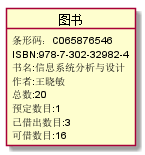
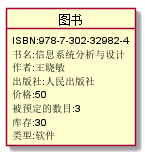
针对实验五修改

diff --git a/test3/3README.MD b/test3/3README.MD
@@ -10,21 +10,23 @@ class 书目{
      书目号
 }
 class 图书{
-    条形码
-    ISBN
-    书名
-    作者
-    总数
-    预定数目
-    已借出数目
-    可借数目
+     ISBN
+     书名
+     作者
+     出版社
+     价格
+     被预定的数目
+     库存
+     类型
 }
 class 预约{
-    预约日期
-    账号
-    数量
-    ISBN
+      预约编号
+      ISBN
+      预约日期
+      读者ID
+      数量
 }
+
 class 读者{
     账号
     姓名
@@ -33,25 +35,29 @@ class 读者{
     最大可借数目
 }
 class 借阅记录{
-    日期
-    书籍价格
-    书目
-    读者账号
+         ID
+         读者账号
+         ISBN
+         日期
 }
 class 逾期记录{
-    逾期天数
-    读者账号
-}
-class 罚款细则{
-   每日罚款金额
+        编号：30
+        读者账号
+        ISBN
+        日期
+        逾期天数
+        逾期一天罚款数额
+        罚款数额
 }
 class 图书管理员{
     职工号
-    姓名
     账号
     密码
 }
 class 超级管理员{
+    职工号
+    账号
+    密码
 }
 
 书目 "0..*" - "1" 图书
@@ -64,7 +70,6 @@ class 超级管理员{
 逾期记录"*"--"0..1"罚款细则
 图书管理员<|-left-超级管理员
 @enduml
-
 ```
 ### 1.2 类图如下：
 ![](图书管理系统类图.png)
@@ -82,10 +87,11 @@ object 图书{
      ISBN:978-7-302-32982-4
      书名:信息系统分析与设计
      作者:王晓敏
-     总数:20
-     预定数目:1
-     已借出数目:3
-     可借数目:16
+     出版社:人民出版社
+     价格:50
+     被预定的数目:3
+     库存:30
+     类型:软件
 }
 @enduml
 ```
@@ -98,12 +104,14 @@ object 图书{
 @startuml
 
 object 借阅记录{
-        日期:2018/4/15
-        书籍价格:￥35
-        书目:信息系统分析与设计
-        读者账号:201817162636
+         ID:3
+         读者账号:201817162636
+         ISBN:978-7-302-32982-4
+         日期:2018/4/15
+
 }
 @enduml
+
 ```
 #### 对象图如下：
 ![](借阅记录.png  "借阅记录" )
@@ -117,7 +125,7 @@ object 借阅记录{
 object 读者{
         账号：201817162636
         姓名：张三
-        密码：******
+        密码：****
         已借书目：3
         最大可借数目：20
 }
@@ -132,12 +140,15 @@ object 读者{
 @startuml
 
 object 预约{
-         预约日期：2018/4/10
-         账号：201817162636
-         数量：1
+         预约编号：30
          ISBN：978-7-302-32982-4
+         预约日期：2018/4/10
+         读者ID：201817162636
+         数量：1
+
 }
 @enduml
+
 ```
 #### 对象图如下：
 ![](预约.png  "预约" )
@@ -150,7 +161,6 @@ object 预约{
 object 图书管理员{
          职工号：19383473
          姓名：李四
-         账号：1234
          密码：***
 }
 
@@ -160,29 +170,39 @@ object 图书管理员{
 #### 对象图如下：
 ![](图书管理员.png  "图书管理员" )
 
-### 2.6 类逾期记录的对象图
+### 2.6 类超级管理员的对象图
+#### 源码如下：
+```
+@startuml
+
+object 超级管理员{
+         职工号：19383473
+         姓名：李四
+         密码：***
+}
+
+@enduml
+
+```
+#### 对象图如下：
+![](超级管理员.png  "超级管理员" )
+
+### 2.7 类逾期记录的对象图
 #### 源码如下：
 ```
 @startuml
 
 object 逾期记录{
-        逾期天数：4
+        编号：30
         读者账号：2019232792
+        ISBN：978-7-302-32982-4
+        日期：2018/5/8
+        逾期天数：3
+        逾期一天罚款数额：0.5
+        罚款数额：1.5
 }
 @enduml
 ```
 #### 对象图如下：
 ![](逾期记录.png  "逾期记录" )
 
-### 2.6 类罚款细则的对象图
-#### 源码如下：
-```
-@startuml
-
-object 罚款细则{
-         每日罚款金额：￥0.5
-}
-@enduml
-```
-#### 对象图如下：
-![](罚款细则.png  "罚款细则" )
